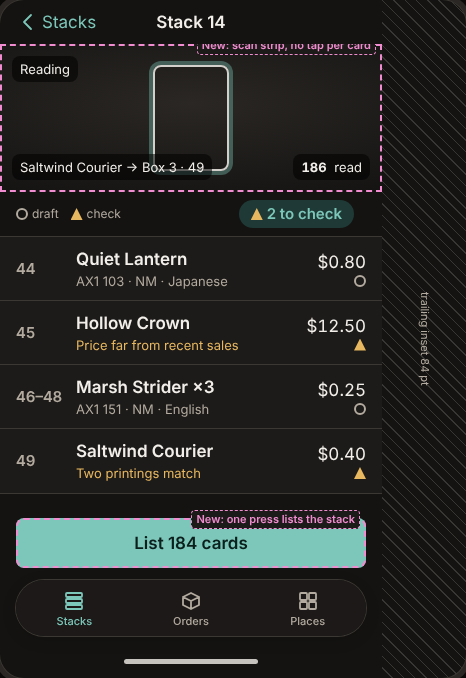
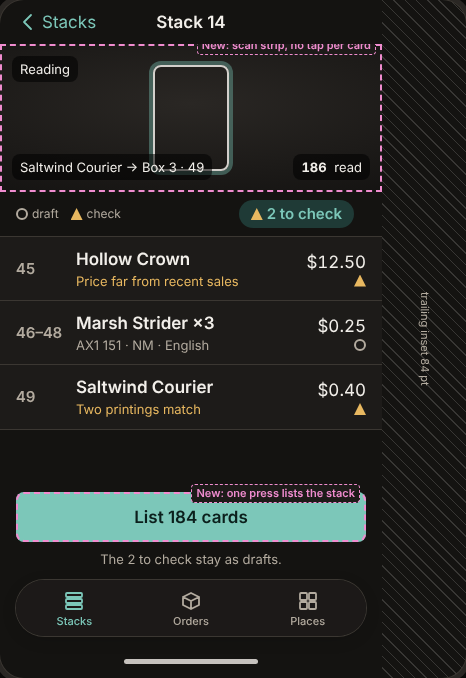
roadmap: d4 redraw, design review round 1 fixes
Claude-Session: https://claude.ai/code/session_013NEJKz6tw51WTmtJToegTs

diff --git a/designs/d4-banchi-phone-v2/phone-blind-1.html b/designs/d4-banchi-phone-v2/phone-blind-1.html
@@ -89,7 +89,7 @@ figcaption { font: 600 13px/18px var(--font); color: var(--text-2); }
 
 /* "New:" marks. Annotation only, not part of the app. */
 .nw { outline: 2px dashed var(--note); outline-offset: -2px; position: relative; }
-.nw.in::after { top: 2px; }
+.nw.in::after { top: 48px; }
 .nw::after { content: attr(data-new); position: absolute; top: -8px; right: 6px; z-index: 5; font: 600 11px/13px var(--font); color: var(--note); background: var(--surface); border: 1px dashed var(--note); border-radius: 4px; padding: 2px 4px; pointer-events: none; }
 .nolabels .nw { outline: none; }
 .nolabels .nw::after { display: none; }
@@ -132,6 +132,13 @@ figcaption { font: 600 13px/18px var(--font); color: var(--text-2); }
 .btn.p { background: var(--accent); color: var(--on-accent); }
 .btn.s { background: var(--accent-soft); color: var(--accent); }
 .btn.q { background: none; color: var(--accent); }
+.btn.o { background: var(--surface); color: var(--accent); box-shadow: inset 0 0 0 1px var(--line); }
+/* A row the person is answering: selected look, with its answers inside it. */
+.pick { display: flex; flex-direction: column; background: var(--accent-soft); border-bottom: 1px solid var(--line); box-shadow: inset 4px 0 0 var(--accent); }
+.pick > .row { border-bottom: 0; }
+.pick-acts { padding: 0 var(--space-4) var(--space-3); }
+/* A dimmed last read: the bars dim, the text keeps its contrast. */
+.dimbars .bar2 { opacity: .5; }
 .btn.off { opacity: .45; }
 .btn.sm { min-height: 44px; font-size: 15px; }
 .btn.wide { width: 100%; }
@@ -419,13 +426,12 @@ details.disc summary::-webkit-details-marker { display: none; }
             </div>
             <div class="fill">
               <div class="list">
-                <div class="row"><span class="slot">44</span><div class="main"><span class="hl ell">Quiet Lantern</span><span class="fn mut ell">AX1 103 · NM · Japanese</span></div><div class="end"><span class="bd num">$0.80</span><i class="st draft" title="draft"></i></div></div>
                 <div class="row"><span class="slot">45</span><div class="main"><span class="hl ell">Hollow Crown</span><span class="fn why ell">Price far from recent sales</span></div><div class="end"><span class="bd num">$12.50</span><i class="st chk" title="check"></i></div></div>
                 <div class="row"><span class="slot">46–48</span><div class="main"><span class="hl ell">Marsh Strider ×3</span><span class="fn mut ell">AX1 151 · NM · English</span></div><div class="end"><span class="bd num">$0.25</span><i class="st draft" title="draft"></i></div></div>
                 <div class="row"><span class="slot">49</span><div class="main"><span class="hl ell">Saltwind Courier</span><span class="fn why ell">Two printings match</span></div><div class="end"><span class="bd num">$0.40</span><i class="st chk" title="check"></i></div></div>
               </div>
             </div>
-            <div class="dock"><button class="btn p wide nw" id="c1-list" data-new="New: one press lists the stack" type="button">List 184 cards</button></div>
+            <div class="dock"><button class="btn p wide nw" id="c1-list" data-new="New: one press lists the stack" type="button">List 184 cards</button><p class="fn mut">The 2 to check stay as drafts.</p></div>
             <nav class="tabbar" aria-label="Sections"><button type="button" class="tab on" aria-current="page"><svg class="ic"><use href="#i-stack"/></svg>Stacks</button><button type="button" class="tab"><svg class="ic"><use href="#i-order"/></svg>Orders</button><button type="button" class="tab"><svg class="ic"><use href="#i-place"/></svg>Places</button></nav>
           </div>
           <div class="ins-r"><span>trailing inset 84 pt</span></div>
@@ -443,7 +449,7 @@ details.disc summary::-webkit-details-marker { display: none; }
               <div class="row sel"><i class="st chk"></i><div class="main"><span class="bd">To check</span><span class="fn mut">Stay as drafts until you pick</span></div><span class="bd num mut">2</span><svg class="ic sm mut"><use href="#i-chev"/></svg></div>
             </div>
             <div class="fill"></div>
-            <div class="dock"><button class="btn p wide" type="button">List 184 cards</button></div>
+            <div class="dock"><button class="btn p wide" type="button">List 184 cards</button><p class="fn mut">The 2 to check stay as drafts.</p></div>
             <nav class="tabbar" aria-label="Sections"><button type="button" class="tab on" aria-current="page"><svg class="ic"><use href="#i-stack"/></svg>Stacks</button><button type="button" class="tab"><svg class="ic"><use href="#i-order"/></svg>Orders</button><button type="button" class="tab"><svg class="ic"><use href="#i-place"/></svg>Places</button></nav>
           </div>
           <div class="fold"><span>fold 40 pt</span></div>
@@ -451,11 +457,13 @@ details.disc summary::-webkit-details-marker { display: none; }
             <div class="bar"><span></span><span class="hl">2 cards</span><button class="nb" type="button">Show all</button></div>
             <div class="colhead cols"><span>Slot</span><span></span><span>Card</span><span>Cond.</span><span style="text-align:end">Price</span></div>
             <div class="list">
-              <div class="row cols"><span class="slot">45</span><i class="st chk" title="check"></i><div class="main"><span class="hl ell">Hollow Crown</span><span class="fn mut ell">AX1 140 · Foil · English · Game A</span><span class="fn why">Price far from recent sales ($3.80 to $4.40)</span></div><span class="sh">NM</span><span class="bd num" style="text-align:end">$12.50</span></div>
+              <div class="pick" aria-current="true">
+                <div class="row cols"><span class="slot">45</span><i class="st chk" title="check"></i><div class="main"><span class="hl ell">Hollow Crown</span><span class="fn mut ell">AX1 140 · Foil · English · Game A</span><span class="fn why">Price far from recent sales ($3.80 to $4.40)</span></div><span class="sh">NM</span><span class="bd num" style="text-align:end">$12.50</span></div>
+                <div class="duo pick-acts"><button class="btn o sm" type="button">Use recent $4.10</button><button class="btn o sm" type="button">Keep $12.50</button></div>
+              </div>
               <div class="row cols"><span class="slot">49</span><i class="st chk" title="check"></i><div class="main"><span class="hl ell">Saltwind Courier</span><span class="fn mut ell">AX1 162 or P07 · English · Game A</span><span class="fn why">Two printings match</span></div><span class="sh">NM</span><span class="bd num" style="text-align:end">$0.40</span></div>
             </div>
             <div class="fill"></div>
-            <div class="dock"><div class="duo"><button class="btn s" type="button">Use recent $4.10</button><button class="btn s" type="button">Keep $12.50</button></div><p class="fn mut">Hollow Crown, slot 45</p></div>
           </div>
         </div>
         <figcaption>iPhone Duo, unfolded</figcaption>
@@ -757,7 +765,7 @@ details.disc summary::-webkit-details-marker { display: none; }
                 <div class="row"><span class="slot">226</span><div class="main"><span class="hl ell">Glass Fox</span><span class="fn mut ell">AX1 088 · NM · English</span></div><span class="bd num">$1.40</span></div>
               </div>
             </div>
-            <div class="dock"><button class="btn p wide" type="button">List 186 cards</button></div>
+            <div class="dock"><button class="btn p wide" type="button">List 186 cards</button><p class="fn mut">Lists the stack in Box 3.</p></div>
             <nav class="tabbar" aria-label="Sections"><button type="button" class="tab on" aria-current="page"><svg class="ic"><use href="#i-shelf"/></svg>Shelf</button><button type="button" class="tab"><svg class="ic"><use href="#i-order"/></svg>Orders</button><button type="button" class="tab"><svg class="ic"><use href="#i-search"/></svg>Search</button></nav>
           </div>
           <div class="ins-r"><span>trailing inset 84 pt</span></div>
@@ -793,7 +801,7 @@ details.disc summary::-webkit-details-marker { display: none; }
               <div class="row"><span class="slot">45</span><i class="st draft"></i><div class="main"><span class="hl ell">Hollow Crown</span><span class="fn mut ell">AX1 140 · NM · Foil · English</span></div><span class="bd num">$12.50</span></div>
             </div>
             <div class="fill"></div>
-            <div class="dock"><button class="btn p wide" type="button">List 186 cards</button></div>
+            <div class="dock"><button class="btn p wide" type="button">List 186 cards</button><p class="fn mut">Lists the stack in Box 3.</p></div>
           </div>
         </div>
         <figcaption>iPhone Duo, unfolded</figcaption>
@@ -817,8 +825,8 @@ details.disc summary::-webkit-details-marker { display: none; }
                 <details class="disc"><summary>What the server said <svg class="ic sm"><use href="#i-chev"/></svg></summary><p class="fn mut">Request timed out (sample)</p></details>
               </div>
             </div>
-            <div class="fill" style="padding-top:12px;opacity:.6">
-              <div class="shelf nw" data-new="New: last read, dimmed, never shown as empty">
+            <div class="fill" style="padding-top:12px">
+              <div class="shelf dimbars nw" data-new="New: last read, dimmed, never shown as empty">
                 <div class="bx"><div class="lab"><span class="hl">Box 1</span><span class="fn mut num">250 of 250</span></div><div class="bar2"><div class="fillx" style="background:linear-gradient(90deg, var(--live) 0 30%, var(--sold) 30% 31%, var(--live) 31% 100%)"></div></div></div>
                 <div class="bx"><div class="lab"><span class="hl">Box 2</span><span class="fn mut num">250 of 250</span></div><div class="bar2"><div class="fillx" style="background:var(--live)"></div></div></div>
                 <div class="bx"><div class="lab"><span class="hl">Box 3</span><span class="fn mut num">40 of 250</span></div><div class="bar2"><div class="fillx" style="background:linear-gradient(90deg, var(--live) 0 16%, transparent 16%)"></div></div></div>
@@ -849,7 +857,7 @@ details.disc summary::-webkit-details-marker { display: none; }
           <div class="fold"><span>fold 40 pt</span></div>
           <div class="pane pr">
             <div class="bar"><span></span><span class="hl">Last read · 7:40 PM</span><span></span></div>
-            <div class="shelf" style="opacity:.6;padding-top:8px">
+            <div class="shelf dimbars" style="padding-top:8px">
               <div class="bx"><div class="lab"><span class="hl">Box 1</span><span class="fn mut num">250 of 250</span></div><div class="bar2"><div class="fillx" style="background:linear-gradient(90deg, var(--live) 0 30%, var(--sold) 30% 31%, var(--live) 31% 100%)"></div></div></div>
               <div class="bx"><div class="lab"><span class="hl">Box 2</span><span class="fn mut num">250 of 250</span></div><div class="bar2"><div class="fillx" style="background:var(--live)"></div></div></div>
               <div class="bx"><div class="lab"><span class="hl">Box 3</span><span class="fn mut num">40 of 250</span></div><div class="bar2"><div class="fillx" style="background:linear-gradient(90deg, var(--live) 0 16%, transparent 16%)"></div></div></div>

diff --git a/designs/d4-banchi-phone-v2/phone-blind-1-notes.md b/designs/d4-banchi-phone-v2/phone-blind-1-notes.md
@@ -117,8 +117,8 @@ first screen.
    must say why it is not sure, or the question is noise.
    Pick: the C3 deck, with the reason on each card.
 
-5. **No tab bar in C3; the pose picks the mode.** Owner grant: yes. Departs from: house
-   `tokens.md`, "On a phone, navigation uses a bottom tab bar."
+5. **No tab bar in C3; the pose picks the mode.**
+   Departs from: `tokens.md`, phone navigation uses a bottom tab bar.
    Gain: the brief says the folded phone is held in one hand with a card in the other, and the
    unfolded phone rests on the table. Each pose then gets one job, and nothing on screen is a
    control to switch jobs. Loss: a person who wants the desk while folded must unfold. Apple's
@@ -150,7 +150,8 @@ first screen.
 9. **Errors.**
    - C1 shows the answer where List was pressed, in the dock: "3 cards did not go live" and
      "Try the 3 again" (`ux-answer-at-press`).
-   - C2 shows the shelf from the last read, dimmed, with its time. It never shows an empty shelf
+   - C2 shows the shelf from the last read, with its time. Only the bars are dimmed. The box
+     names and counts keep their full contrast. It never shows an empty shelf
      (`ux-unknown-is-not-empty`).
    - C3 keeps reading. The cards that TCGplayer did not accept wait as drafts, and the count says
      how many.
@@ -162,7 +163,12 @@ first screen.
 10. **Loading.** The long run is getting prices for a stack. It shows "64 of 186", a progress bar
     and a Stop control (`ux-long-run-stops`). Each row's skeleton keeps the size of the loaded row,
     so nothing moves when the data comes (`ux-press-moves-nothing`). List stays in its place,
-    disabled, with "Waits for prices." under it (`ux-control-earns-place`).
+    disabled, with "Waits for prices." under it (`ux-control-earns-place`). The line under List
+    is there in every state, so List does not move when the prices come.
+    Pick: yes.
+
+15. **The answers to a check sit in its row.** In C1 unfolded, the picked row (slot 45) has a
+    selected look, and its two answers are inside the row (`ux-control-beside-area`).
     Pick: yes.
 
 11. **Text fields with the keyboard open.**
